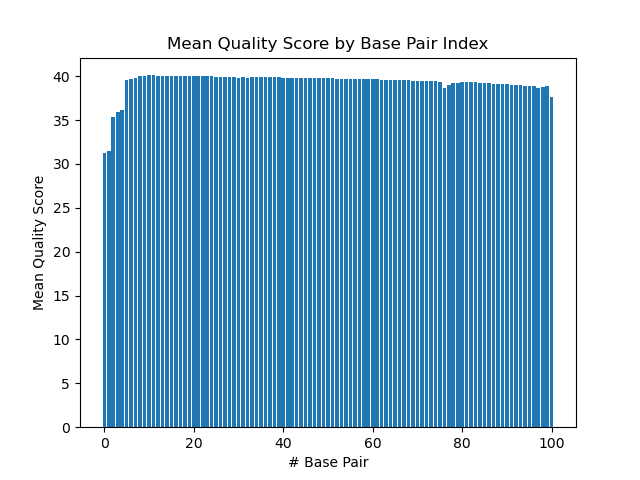
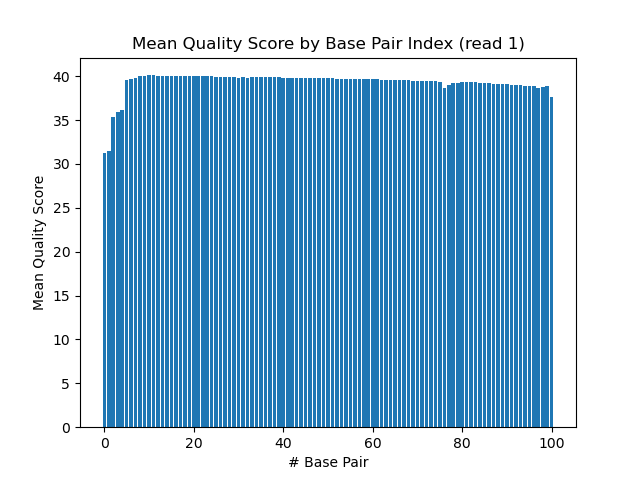
submission

Changed region(s): [[0.1875, 0.0625, 0.8125, 0.125]]

diff --git a/Assignment-the-first/hamming.py b/Assignment-the-first/hamming.py
@@ -58,9 +58,9 @@ for i, distance in enumerate(hamm_dist_frequencies):
     distances.append(distance)
     counts.append(hamm_dist_frequencies[distance])
 
-plt.bar(distances, counts, align='center')
-plt.ylabel('count')
+plt.bar(distances, counts, align='Center')
+plt.ylabel('Count')
 plt.xlim((2,9))
-plt.xlabel('hamming distance for index pair')
-plt.title('hamming distances of index combinations')
+plt.xlabel('Hamming distance for index pair')
+plt.title('Hamming distances of index combinations')
 plt.savefig('Assignment-the-first/hamming_hist.png')

diff --git a/Assignment-the-first/plot_qscores.py b/Assignment-the-first/plot_qscores.py
@@ -42,7 +42,7 @@ def main():
                         means[j] += bioinfo.convert_phred(char)/n_reads
         # plot the thing here
         plt.bar(range(0,num_chars), means)
-        plt.title("Mean Quality Score by Base Pair Index")
+        plt.title(f'Mean Quality Score by Base Pair Index (read {read_num + 1})')
         plt.xlabel("# Base Pair")
         plt.ylabel("Mean Quality Score")
         plt.savefig(f'read{read_num+1}.png')

diff --git a/Assignment-the-first/Answers.md b/Assignment-the-first/Answers.md
@@ -12,8 +12,29 @@
 
 2. Per-base NT distribution
     1. Use markdown to insert your 4 histograms here.
-    2. **YOUR ANSWER HERE**
-    3. **YOUR ANSWER HERE**
+    ![read1.png](read1.png)
+    ![read2.png](read2.png)
+    ![read3.png](read3.png)
+    ![read4.png](read4.png)
+
+    What is a good quality score cutoff for index reads and biological read pairs to utilize for sample identification and downstream analysis, respectively? Justify your answer.
+
+    2. No quality score cutoff for either.
+
+    As far as index reads are concerned, we can look into the hamming distance, or the number of positions in which the two strings are different, in order to figure out just how likely it is that an index would be misread as another index which is being used rather than simply not being identified.
+
+    I wrote a script, [hamming.py](hamming.py), in order to graph the distribution of hamming distance across all possible combinations of indices which are provided in the `indexes.txt` file on talapas.
+
+    ![hamming_hist.png](hamming_hist.png)
+
+    This shows that, in the worst-case (and least likely) scenario, the correct 3 bases would need to be not only misread, but misread to match the other index sequence exactly. The odds are unlikely enough that this is acceptably rare, and justifies not needing a q score threshold for the 
+
+    How many indexes have undetermined (N) base calls? (Utilize your command line tool knowledge. Submit the command(s) you used. CHALLENGE: use a one-line command)
+
+    3. 3328051
+    ```bash
+    zcat /projects/bgmp/shared/2017_sequencing/1294_S1_L008_R3_001.fastq.gz | sed -n '2~4p' | grep 'N' | wc -l
+    ```
     
 ## Part 2
 1. Define the problem
